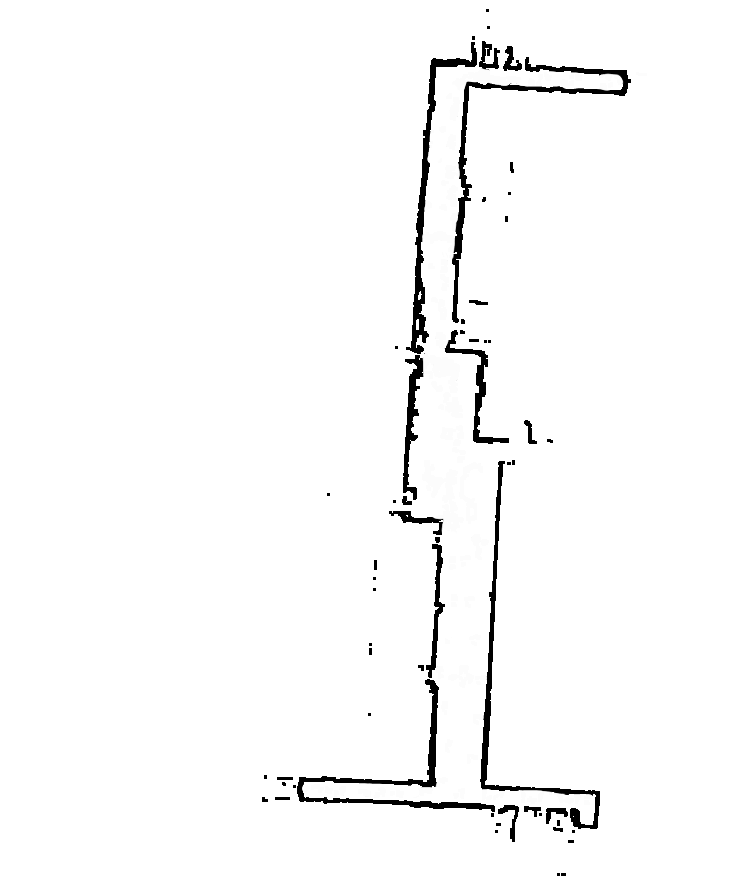
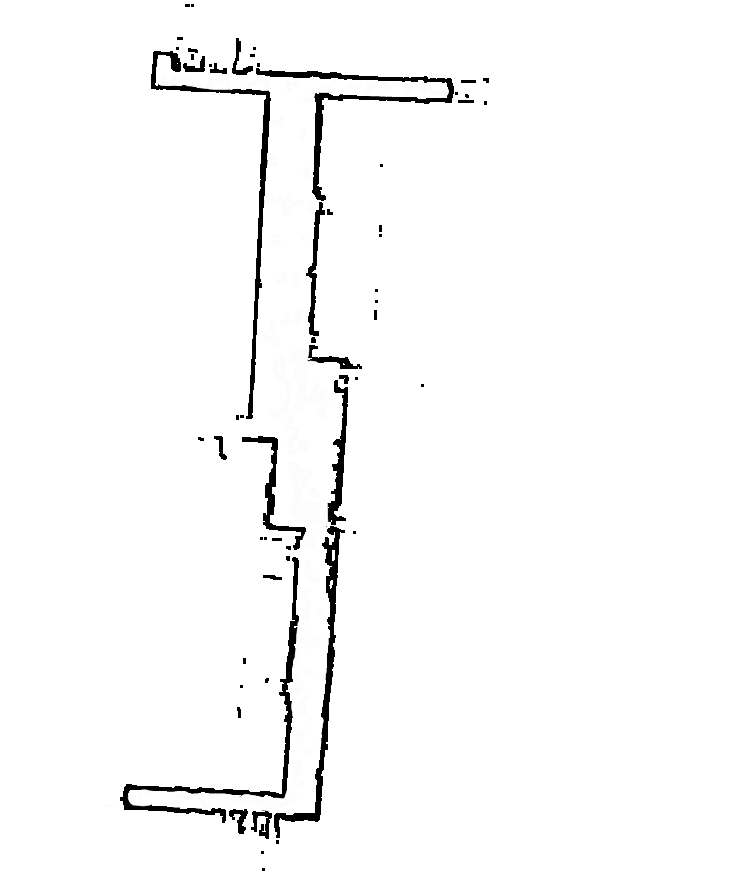
适配RMCS_Slam消息进行规划

diff --git a/src/Maps/OccupencyMap/OccupancyMapGenerator.cs b/src/Maps/OccupencyMap/OccupancyMapGenerator.cs
@@ -7,6 +7,7 @@ namespace Maps;
 class OccupancyMapGenerator : Component, IGridMap, ISafeCorridorGenerator
 {
   OccupancyMapData _data;
+  OccupancyMapData _data_init;
 
   public Vector3i Index => ((IGridMap)_data).Index;
   public Vector3d OriginInWorld => ((IGridMap)_data).OriginInWorld;
@@ -35,7 +36,7 @@ class OccupancyMapGenerator : Component, IGridMap, ISafeCorridorGenerator
   ReadOnlyUnmanagedInterfacePublisher<OccupancyMapData> _mapPublisher = new("/occupancy/map");
   public int Mode = 0;
   public bool Debug = false;
-  public string DynamicMapTopicName = "/map/local_map";
+  public string DynamicMapTopicName = "rmcs_map/map/grid";
   public string SaveMapPath = "./last.zip.tlm";
   public string MapPath = "";
   private IO.ROS2Msgs.Nav.OccupancyGrid _dynamicMapReceiver;
@@ -58,18 +59,19 @@ class OccupancyMapGenerator : Component, IGridMap, ISafeCorridorGenerator
 
         var tmp = PositionInWorldToIndex(
           _sentry_status.position
-            + Quaterniond.AxisAngleR(Vector3d.AxisZ, _sentry_status.AngleR + Math.PI) * _position
+            + Quaterniond.AxisAngleR(Vector3d.AxisZ, _sentry_status.AngleR ) * _position
         );
 
         dy_data._map = data.Map;
         dy_data.offsetX = tmp.x;
         dy_data.offsetY = tmp.y;
-        dy_data.forward = Math.SinCos(_sentry_status.AngleR + Math.PI);
+        dy_data.forward = Math.SinCos(_sentry_status.AngleR );
 
         _dynamicMap = dy_data;
       }
     );
     _data = OccupancyGridMapHelper.Init(MapPath);
+    _data_init = OccupancyGridMapHelper.Init(MapPath);
     if (Debug)
     {
       _rosMapPublisher = new(IOManager);
@@ -92,7 +94,7 @@ class OccupancyMapGenerator : Component, IGridMap, ISafeCorridorGenerator
             Math.Round(i * _dynamicMap.forward.Cos - j * _dynamicMap.forward.Sin + _dynamicMap.offsetX);
           var y = (int)
             Math.Round(j * _dynamicMap.forward.Cos + i * _dynamicMap.forward.Sin + _dynamicMap.offsetY);
-
+        if(_data_init[x,y] != 0)
           _data.Update(x, y, _dynamicMap._map[i, j]);
         }
     }

diff --git a/src/Maps/OccupencyMap/OccupencyMapData.cs b/src/Maps/OccupencyMap/OccupencyMapData.cs
@@ -34,8 +34,8 @@ class OccupancyMapData(int sizeX, int sizeY, float resolution) : IGridMap, IDisp
 
   public sbyte this[int x, int y]
   {
-    get => data[x, y];
-    set => data[x, y] = value;
+    get =>  x > 0 && x < SizeX && y > 0 && y < SizeY ? data[x, y] : (sbyte)0;
+    set {if( x > 0 && x < SizeX && y > 0 && y < SizeY) data[x, y] = value;}
   }
   Vector3i IGridMap.Index => throw new NotImplementedException();
 
@@ -83,14 +83,14 @@ class OccupancyMapData(int sizeX, int sizeY, float resolution) : IGridMap, IDisp
     if (value > 0)
       data[x, y] = (sbyte)
         Math.Clamp(
-          Math.Round(data[x, y] * (1 + (value * lo_occ / 100)), MidpointRounding.AwayFromZero),
+          Math.Round(data[x, y] - lo_occ, MidpointRounding.AwayFromZero),
           1,
           100
         );
     else
       data[x, y] = (sbyte)
         Math.Clamp(
-          Math.Round(data[x, y] * (1 + (value * lo_free / 100)), MidpointRounding.ToZero),
+          Math.Round(data[x, y] - lo_free, MidpointRounding.ToZero),
           1,
           100
         );
